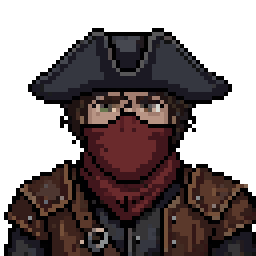
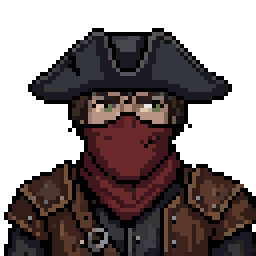
Портрет мародёра — вариант 3 (выбор владельца)
Claude-Session: https://claude.ai/code/session_01NZaKJV7VXAQHZfGwN3MbH5

diff --git a/docs/art-canon.md b/docs/art-canon.md
@@ -25,7 +25,7 @@
 ## Найт
 Лицо — только пасхалка (не в главе 1). **Глаза — оливковые** (владелец, 15.10): где они видны (тень под полями треуголки
 в сете мародёра, щель забрала), — только оливковые. Утверждённый портрет в шлеме — первый (`assets/portraits/knight.png`).
-Сет мародёра: чёрная треуголка, тёмно-красный платок на лице, кожаная куртка с ремнями, сапоги (`knight-marauder.png`).
+Сет мародёра: чёрная треуголка, тёмно-красный платок на лице, кожаная куртка с ремнями, сапоги (`knight-marauder.png`, лицо — вариант 3, выбран владельцем: кудри из-под треуголки, оливковые глаза).
 
 ## Кот Фуджин
 Эталон: `assets/objects/cat_sit.png` (выбран владельцем — вариант 23). Живой чёрный кот, спортивный, не толстый,
